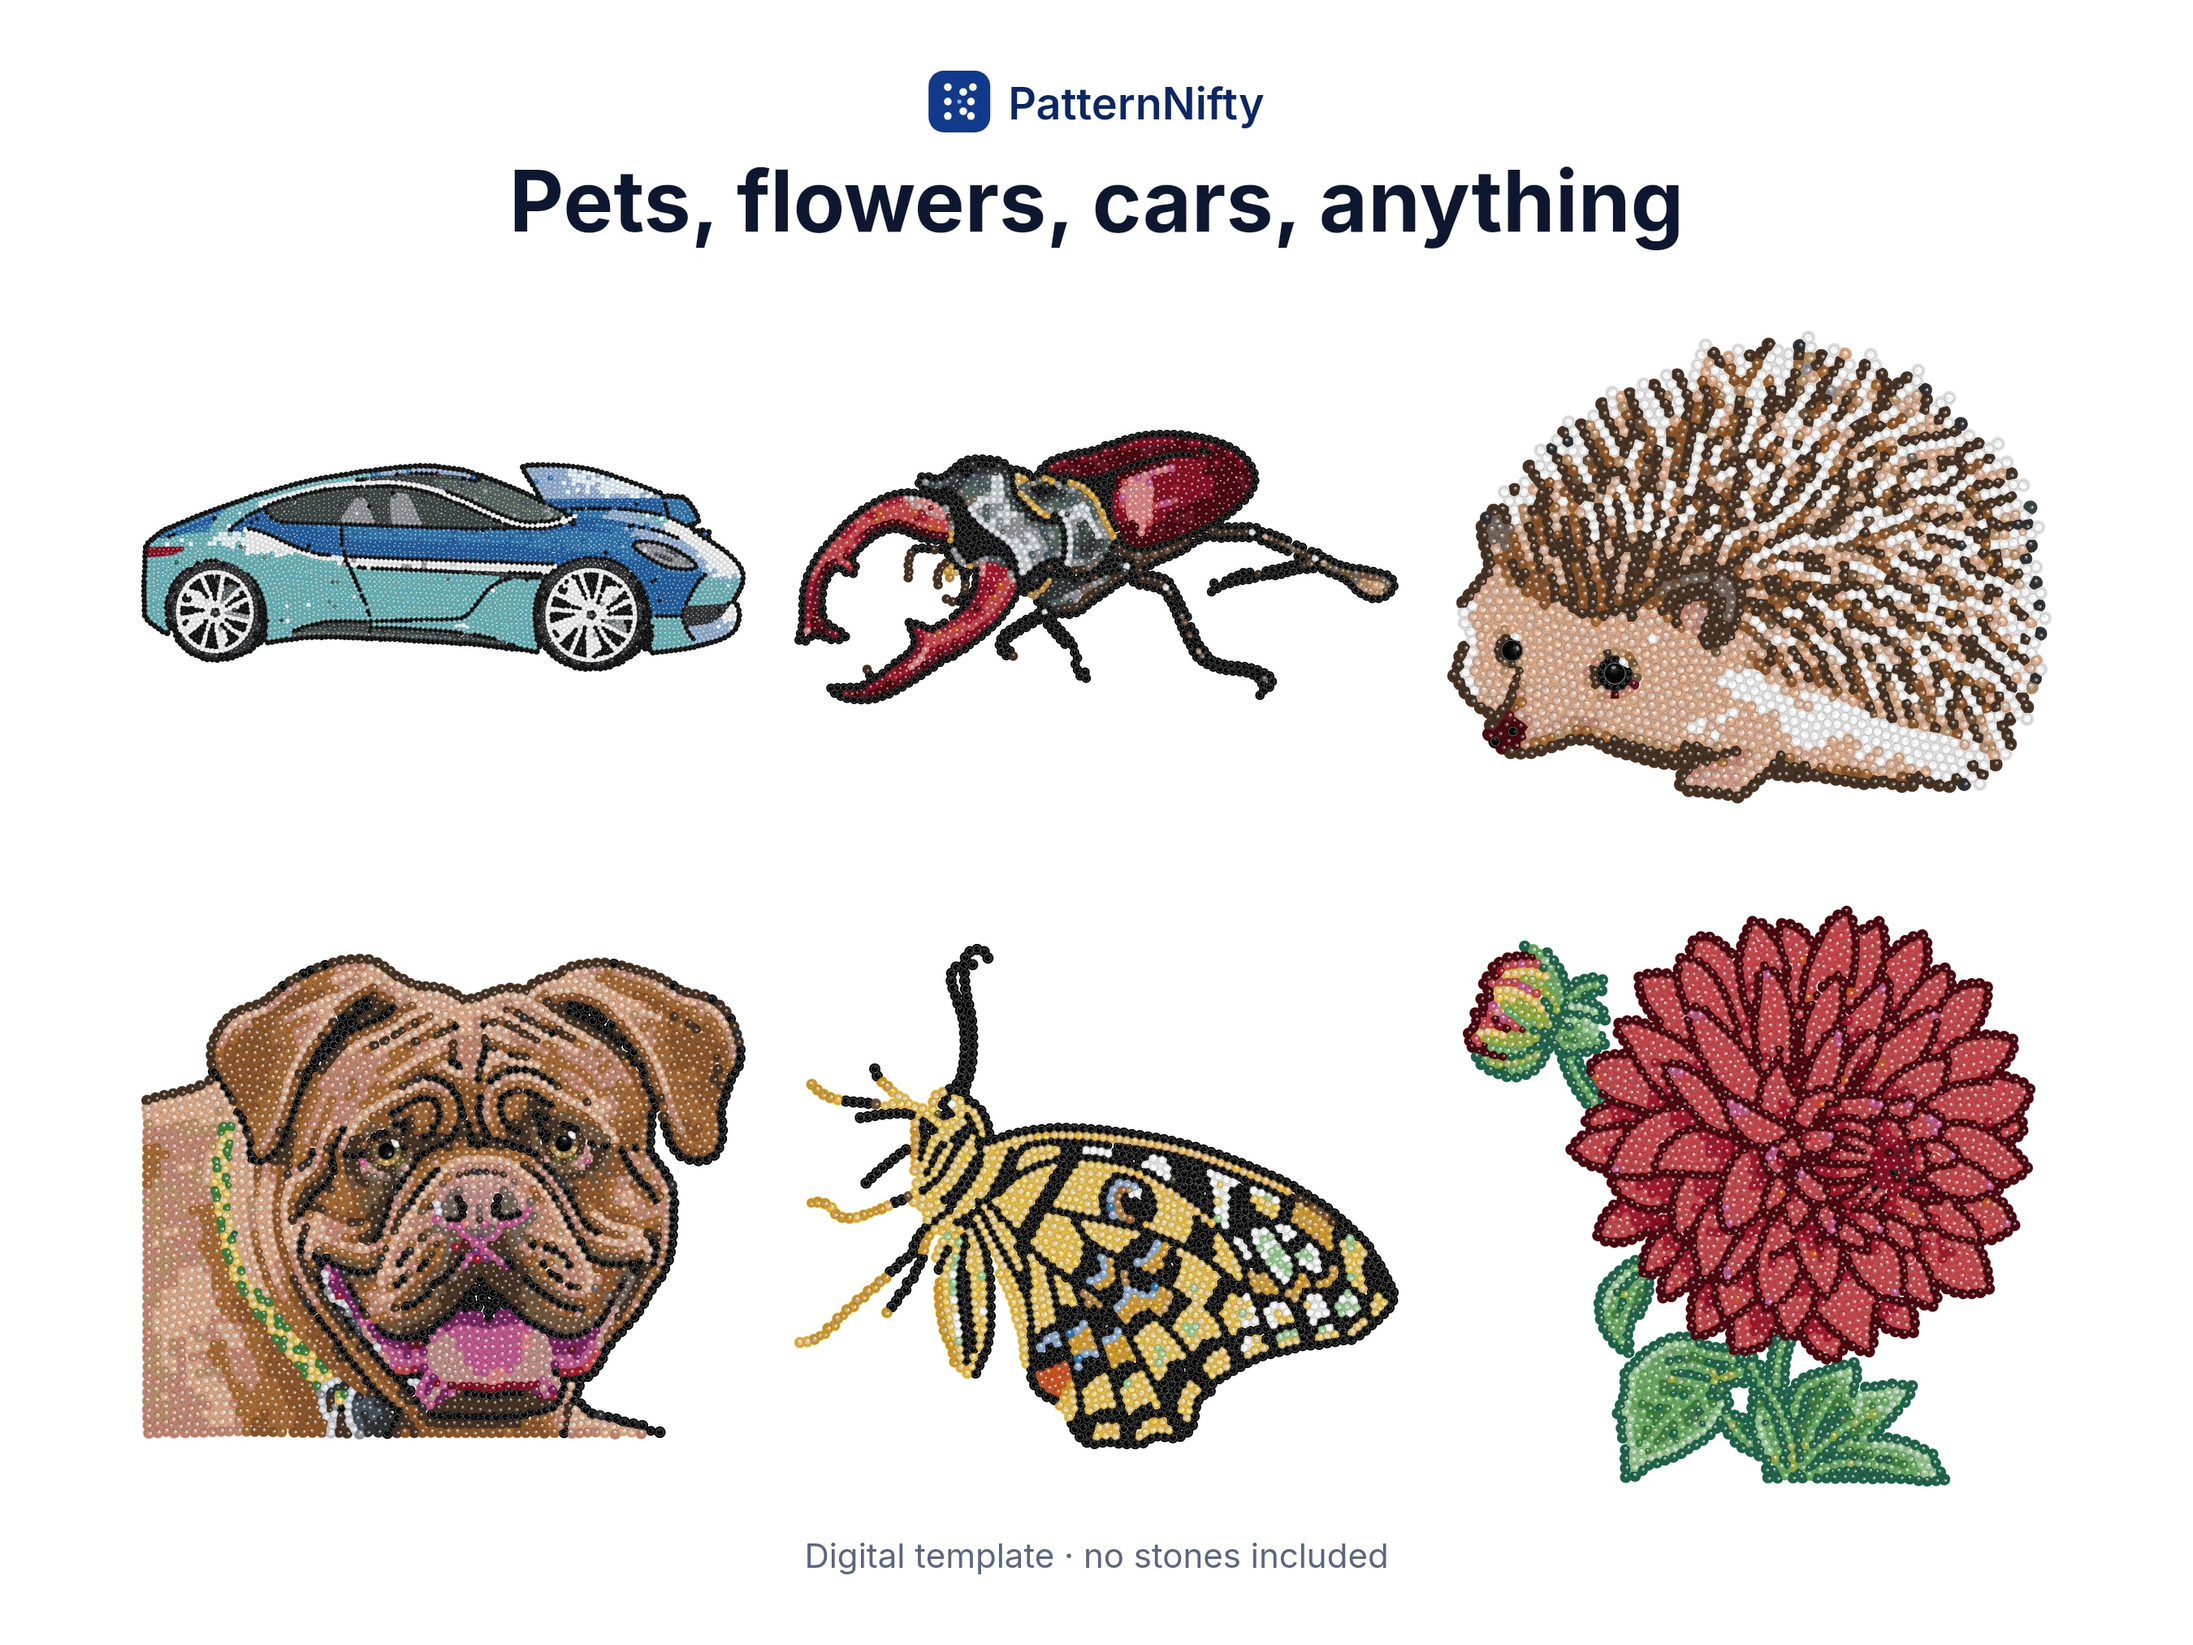
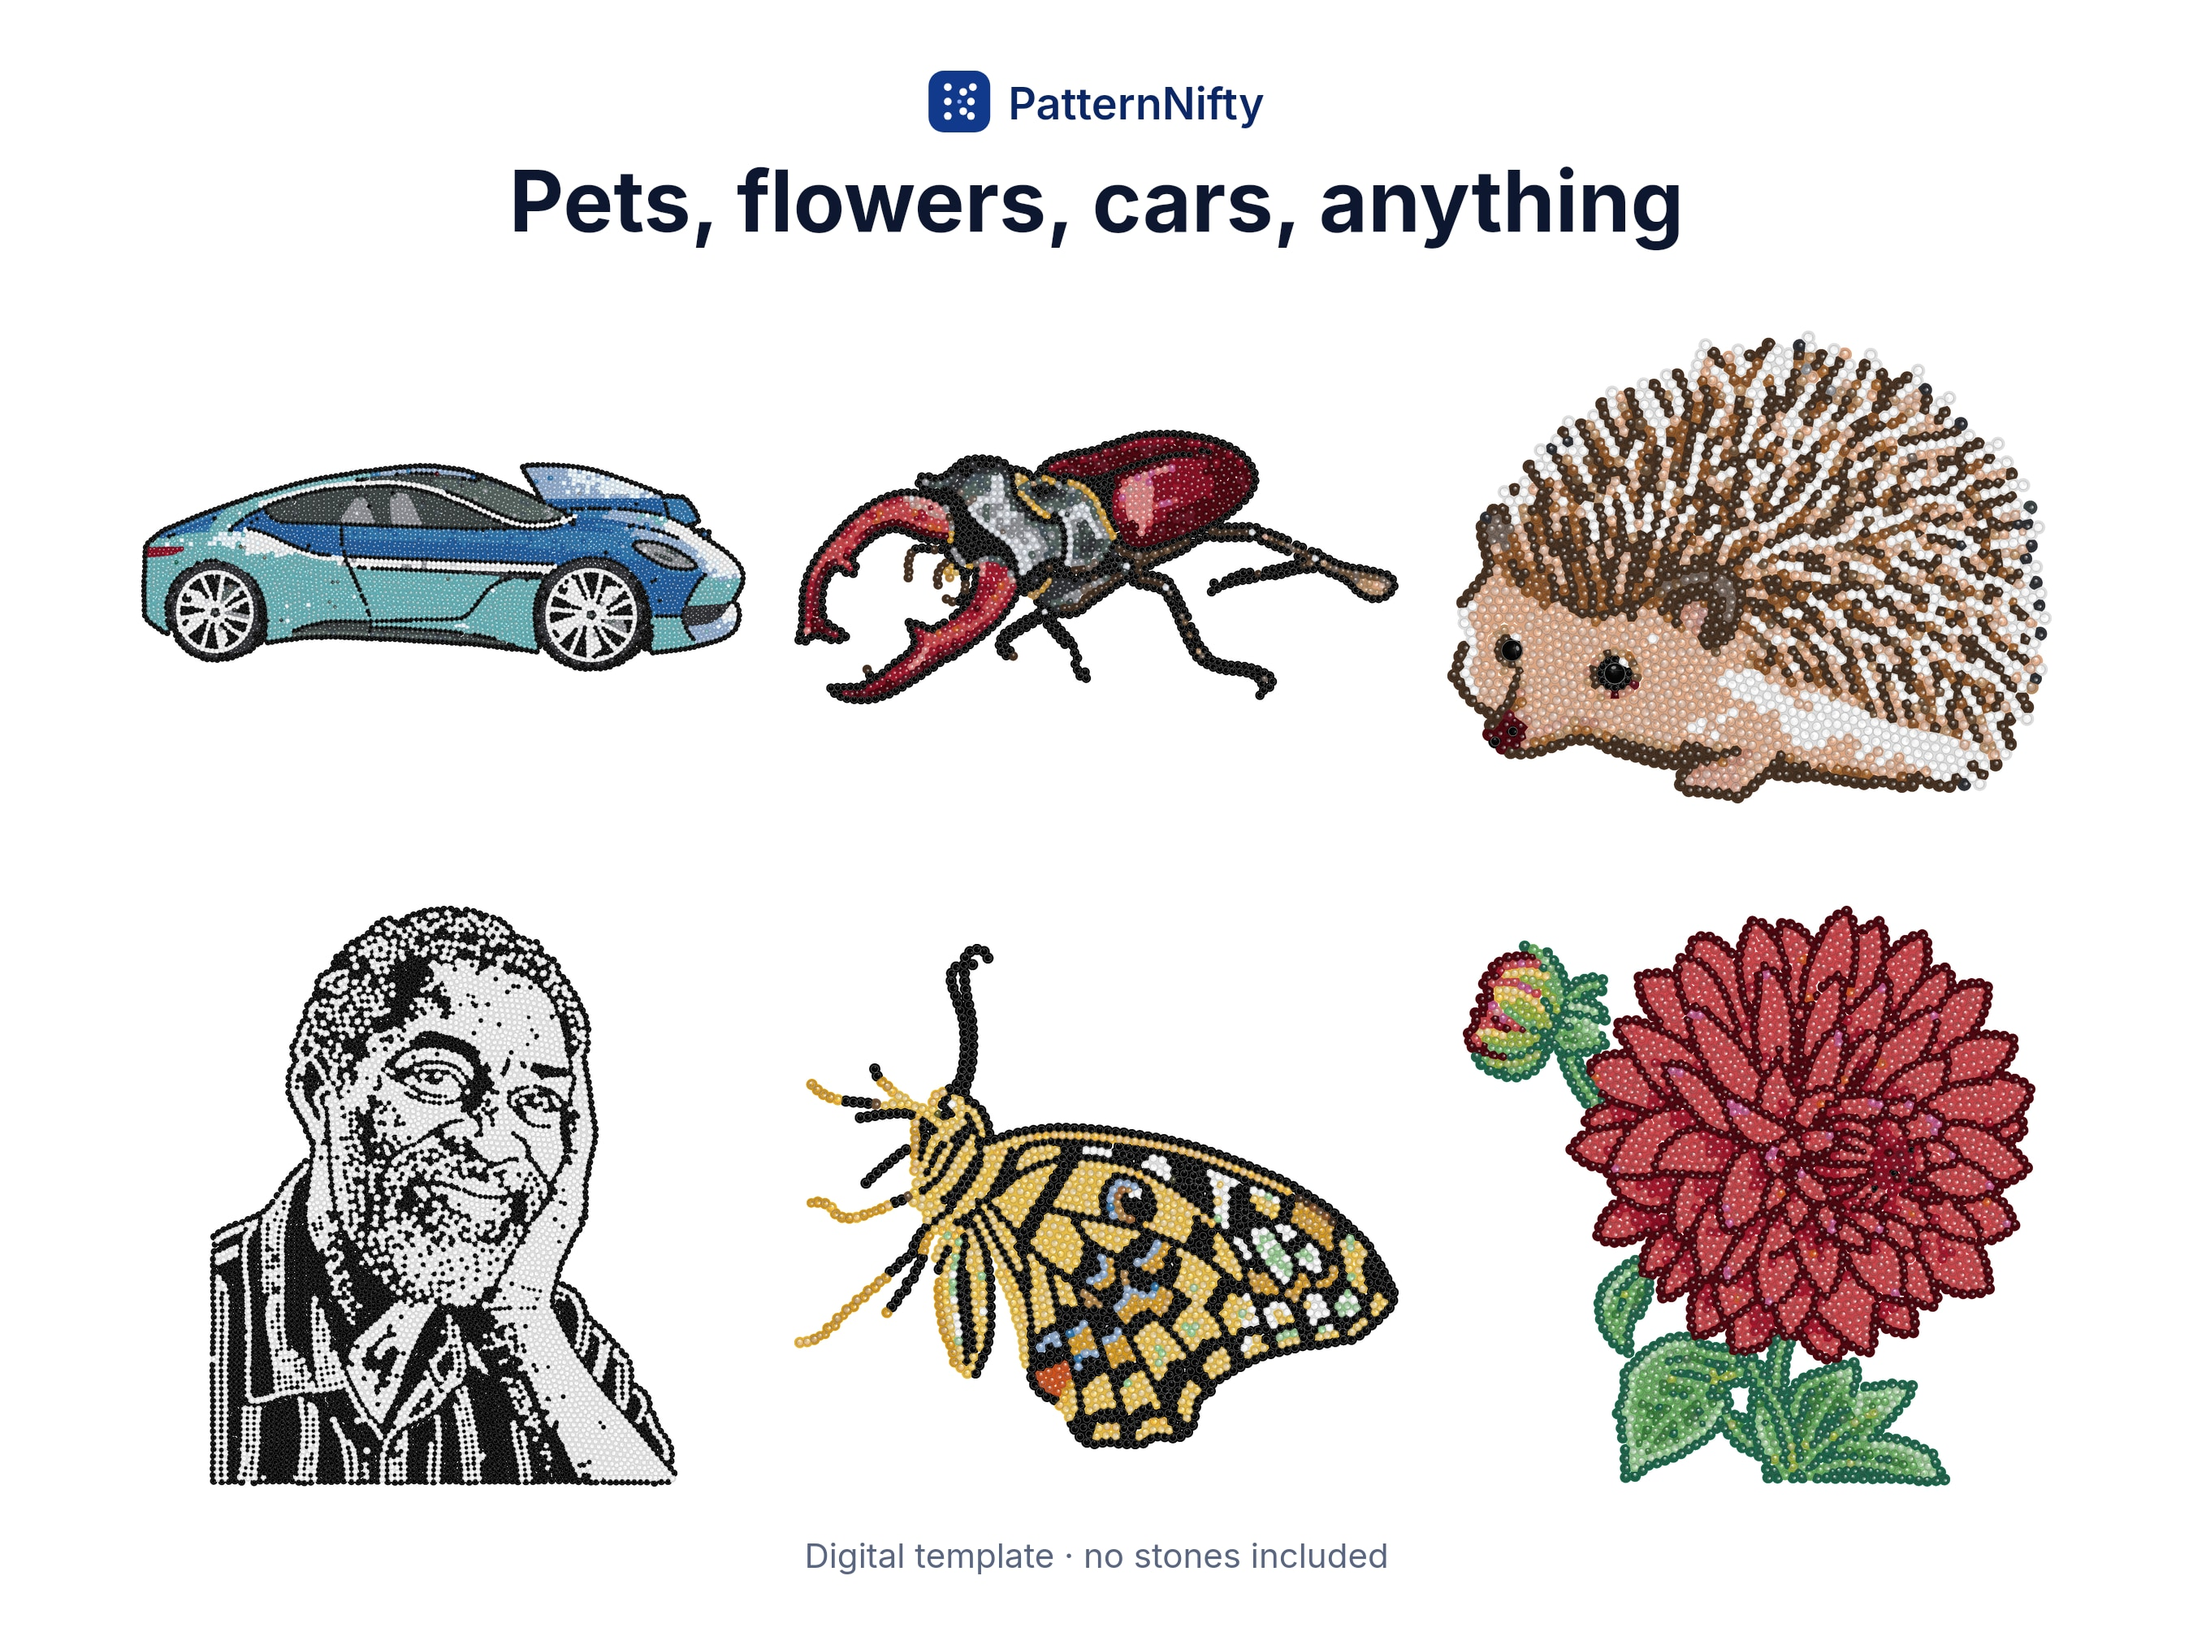
PN-04c: listing photos, dahlia alone as the main photo, no mastiff Colour
Etsy flags the collage main photo as hard to see in search, and the mastiff
Colour design's tongue is pink, not red.

- 00-main-dahlia.jpg: the dahlia tinted design alone, centred between the top
  safe margin and the footer (86.9 % of the photo's height), the brand row in
  the safe area's top-left corner; the script refuses to draw a stone within
  30 px of the brand row or the footer.
- 01-main-dahlia.jpg renamed 01-before-after-dahlia.jpg (same bytes);
  01-main-butterfly.jpg removed.
- 03-range.jpg: person-bw-halftone instead of mastiff-colour.
- 06-size.jpg: stag-beetle-colour (1514 stones, mostly SS6); a wide design
  may fill 80 % of the safe width instead of 65 % of the height.
- mastiff-colour is "use in listing: no" and no longer readable by the script.
- READMEs (order 00 to 08, new alt texts), overview.png and the test updated.

Changed region(s): [[0.0622, 0.5289, 0.3422, 0.9022]]

diff --git a/docs/listing/photos/README.md b/docs/listing/photos/README.md
@@ -4,26 +4,27 @@ Made by `node tools/make-listing-photos.mjs` from the listing designs marked "us
 [../README.md](../README.md) (their full-size files in `data/listing/designs/`). Running it again
 gives the same files. Each photo is 2700 × 2025 px (4:3), sRGB JPG, under 1 MB; everything that
 matters is at least 80 px inside the centre 2531 × 2025 px, the part Etsy's thumbnail (about 5:4)
-shows. The close-up (07) is rendered sharp at 26.5 px per mm from the butterfly design's stones, with
-the app's own tinted renderer.
+shows. The main photo (00) is the dahlia design alone, at least 85 % of the photo's height, with
+only the small brand row in the top-left corner and the footer line. The close-up (07) is rendered
+sharp at 26.5 px per mm from the butterfly design's stones, with the app's own tinted renderer.
 [overview.png](overview.png) shows them all on one sheet.
 
 Text is set in Inter (SIL Open Font License, `tools/fonts/`).
 
 ## Order on Etsy
 
-Use one of the two 01 photos as the main photo, then 02 to 08.
+00 is the main photo, then 01 to 08.
 
 | # | File | Alt text |
 | ---: | --- | --- |
-| 1 | [01-main-butterfly.jpg](01-main-butterfly.jpg) | A photo of a yellow and black swallowtail butterfly, an arrow, and the same butterfly drawn larger as a colour rhinestone template, every stone shown. Title: Your photo to rhinestone template. |
-| 1 | [01-main-dahlia.jpg](01-main-dahlia.jpg) | A photo of a red dahlia with a bud and green leaves, an arrow, and the same flower drawn larger as a colour rhinestone template, every stone shown. Title: Your photo to rhinestone template. |
-| 2 | [02-bold-vs-shaded.jpg](02-bold-vs-shaded.jpg) | A small photo of a mastiff's head, then two black and white rhinestone templates of it: Bold, with solid black and clear areas, and Shaded, with black and clear stones mixed. Title: Black & white in two styles. |
-| 3 | [03-range.jpg](03-range.jpg) | Six colour rhinestone templates: a sports car, a stag beetle, a hedgehog, a mastiff, a butterfly and a red dahlia. Title: Pets, flowers, cars, anything. |
-| 4 | [04-how-it-works.jpg](04-how-it-works.jpg) | Four numbered cards with a butterfly example: upload your photo (with an upload sign), see your design, order on Etsy with your code (PN-7K3Q-9XPA as an example), download your files. |
-| 5 | [05-whats-included.jpg](05-whats-included.jpg) | The first page of a printable production sheet for a black and white mastiff template, next to the list of files included: SVG, PDF production sheet in A4 and Letter, AI, EPS, DXF, PNG and a preview. |
-| 6 | [06-size.jpg](06-size.jpg) | A colour rhinestone template of a mastiff with dimension lines: 16.5 cm (6.49 in) wide and 13.2 cm (5.21 in) high, 3714 stones, mostly SS6. Each design has its own natural size, usually 13 to 30 cm. |
-| 7 | [07-close-up.jpg](07-close-up.jpg) | A close-up of the butterfly template's wing: single rhinestones in clear yellow areas edged by black lines, with blue, white and green spots. Title: Every stone placed for you. |
-| 8 | [08-person.jpg](08-person.jpg) | A small black and white portrait photo of a smiling man, then two rhinestone templates of it labelled Bold and Shaded. Title: Portraits too. |
+| 1 | [00-main-dahlia.jpg](00-main-dahlia.jpg) | A large colour rhinestone template of a red dahlia with a bud and green leaves on white, every stone shown. Digital template, no stones included. |
+| 2 | [01-before-after-dahlia.jpg](01-before-after-dahlia.jpg) | A photo of a red dahlia with a bud and green leaves, an arrow, and the same flower drawn larger as a colour rhinestone template, every stone shown. Title: Your photo to rhinestone template. |
+| 3 | [02-bold-vs-shaded.jpg](02-bold-vs-shaded.jpg) | A small photo of a mastiff's head, then two black and white rhinestone templates of it: Bold, with solid black and clear areas, and Shaded, with black and clear stones mixed. Title: Black & white in two styles. |
+| 4 | [03-range.jpg](03-range.jpg) | Six rhinestone templates: a sports car, a stag beetle, a hedgehog, a black and white Shaded portrait of a smiling man, a butterfly and a red dahlia. Title: Pets, flowers, cars, anything. |
+| 5 | [04-how-it-works.jpg](04-how-it-works.jpg) | Four numbered cards with a butterfly example: upload your photo (with an upload sign), see your design, order on Etsy with your code (PN-7K3Q-9XPA as an example), download your files. |
+| 6 | [05-whats-included.jpg](05-whats-included.jpg) | The first page of a printable production sheet for a black and white mastiff template, next to the list of files included: SVG, PDF production sheet in A4 and Letter, AI, EPS, DXF, PNG and a preview. |
+| 7 | [06-size.jpg](06-size.jpg) | A colour rhinestone template of a stag beetle with dimension lines: 20.4 cm (8.05 in) wide and 9.2 cm (3.63 in) high, 1514 stones, mostly SS6. Each design has its own natural size, usually 13 to 30 cm. |
+| 8 | [07-close-up.jpg](07-close-up.jpg) | A close-up of the butterfly template's wing: single rhinestones in clear yellow areas edged by black lines, with blue, white and green spots. Title: Every stone placed for you. |
+| 9 | [08-person.jpg](08-person.jpg) | A small black and white portrait photo of a smiling man, then two rhinestone templates of it labelled Bold and Shaded. Title: Portraits too. |
 
 Every photo except the close-up says "Digital template · no stones included" at the bottom.

diff --git a/docs/listing/README.md b/docs/listing/README.md
@@ -16,7 +16,7 @@ Each folder in `designs/` holds `prepared.png` and `tinted.png` at 1200 px on th
 | [car](designs/car-colour/) | Colour | 4856 | 308.2 × 106 mm (12.13 × 4.17 in) | [Wikimedia Commons](https://commons.wikimedia.org/wiki/File:Borgward_concept_car_side_view.jpg) | CC0 | yes |
 | [dahlia](designs/dahlia-colour/) | Colour | 3127 | 156 × 158.2 mm (6.14 × 6.23 in) | PickPik, source page not kept | [pickpik Open License](https://www.pickpik.com/license) | yes |
 | [hedgehog](designs/hedgehog-colour/) | Colour | 2328 | 136.2 × 106.3 mm (5.36 × 4.18 in) | PickPik, source page not kept | [pickpik Open License](https://www.pickpik.com/license) | yes |
-| [mastiff](designs/mastiff-colour/) | Colour | 3714 | 164.9 × 132.4 mm (6.49 × 5.21 in) | PickPik, source page not kept | [pickpik Open License](https://www.pickpik.com/license) | yes |
+| [mastiff](designs/mastiff-colour/) | Colour | 3714 | 164.9 × 132.4 mm (6.49 × 5.21 in) | PickPik, source page not kept | [pickpik Open License](https://www.pickpik.com/license) | no: the tongue colour is wrong |
 | [mastiff](designs/mastiff-bw-stencil/) | Black & white Bold | 3701 | 163.2 × 132.6 mm (6.42 × 5.22 in) | PickPik, source page not kept | [pickpik Open License](https://www.pickpik.com/license) | yes |
 | [mastiff](designs/mastiff-bw-halftone/) | Black & white Shaded | 4141 | 179.1 × 144 mm (7.05 × 5.67 in) | PickPik, source page not kept | [pickpik Open License](https://www.pickpik.com/license) | yes |
 | [parrot](designs/parrot-colour/) | Colour | 2375 | 111.1 × 114.5 mm (4.37 × 4.51 in) | PickPik, source page not kept | [pickpik Open License](https://www.pickpik.com/license) | no: the photo cuts the head |
